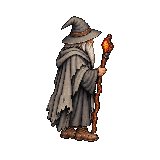
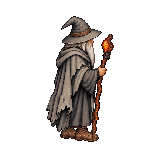
art: ground east walking staff at the boot contact plane

diff --git a/tools/art/grey-wizard/audit-walk-review.py b/tools/art/grey-wizard/audit-walk-review.py
@@ -17,7 +17,8 @@ root=Path(__file__).resolve().parents[3]
 source=root/args.source
 project=json.loads((source/'project.json').read_text())
 profile=json.loads((source/'animation-profile.json').read_text())
-ora=source/('grey-wizard-fire-southeast.ora' if project['direction']=='SE' else 'grey-wizard-fire-south.ora')
+facing={'S':'south','SE':'southeast','E':'east'}[project['direction']]
+ora=source/('grey-wizard-fire-'+facing+'.ora')
 with zipfile.ZipFile(ora) as z:
     assert z.read('mimetype')==b'image/openraster'
     tree=ET.fromstring(z.read('stack.xml'))
@@ -27,7 +28,7 @@ with zipfile.ZipFile(ora) as z:
     for layer,expected in zip(layers,reversed(project['layers'])):
         assert layer.attrib['name']==expected['name']
         assert z.read(layer.attrib['src'])==(source/expected['file']).read_bytes()
-name='southeast-walk' if project['direction']=='SE' else 'south-walk'
+name=facing+'-walk'
 with Image.open(source/'review'/(name+'.gif')) as gif:
     assert gif.n_frames==16
     duration=0

diff --git a/tools/art/grey-wizard/package-gothic.py b/tools/art/grey-wizard/package-gothic.py
@@ -23,7 +23,8 @@ for index, layer in enumerate(reversed(project['layers'])):
     data = (source / layer['file']).read_bytes()
     assert Image.open(source / layer['file']).size == (w, h)
     entries.append((name, data))
-filename = 'grey-wizard-fire-southeast.ora' if project['direction'] == 'SE' else 'grey-wizard-fire-south.ora'
+facing = {'S':'south','SE':'southeast','E':'east'}[project['direction']]
+filename = 'grey-wizard-fire-' + facing + '.ora'
 with zipfile.ZipFile(source / filename, 'w') as archive:
     def put(name, data, compression=zipfile.ZIP_DEFLATED):
         info = zipfile.ZipInfo(name, (1980, 1, 1, 0, 0, 0))

diff --git a/docs/art/grey-wizard-production-2026-10-30.md b/docs/art/grey-wizard-production-2026-10-30.md
@@ -767,8 +767,18 @@ feet/grip sheets inspected through16poses; diagnostics now report one connected
 binary-alpha/unclipped silhouette per frame. These are supplemental diagnostics,
 not artistic acceptance. Original S/SE source exports preserved unchanged.
 
-E support7–15 stays analytically fixed at117,134 under root[1.5i,0]. Raster staff
+E support7–15 stays analytically fixed at117,141 under root[1.5i,0]. Raster staff
 tip spread1px and boot stance extent spread0.5px reflect native rounding; grip
 error0. Real C# speed/stride, world perspective/occlusion, material/phone gates
 remain OPEN. No runtime/gameplay/engine changes or production cutover.
 Checkpoint before review media and browser playback.
+
+### East ground/contact review refinement
+
+Full-frame inspection found the original neutral staff ended7 source pixels
+above the near boot sole. Extended the narrow wood tip with explicit existing
+wood donor pigments to y141, retaining compact head/grip proportions. Authoring
+ownership gives those tip pixels to staff, not overlapping boot masks; far-boot
+reconstruction cannot copy shaft pixels. Analytical support now117,141, on the
+near-foot ground row. Earlier pre-media source checkpoint remains historical.
+No claim that an arbitrary fixed tip point alone establishes ground contact.
